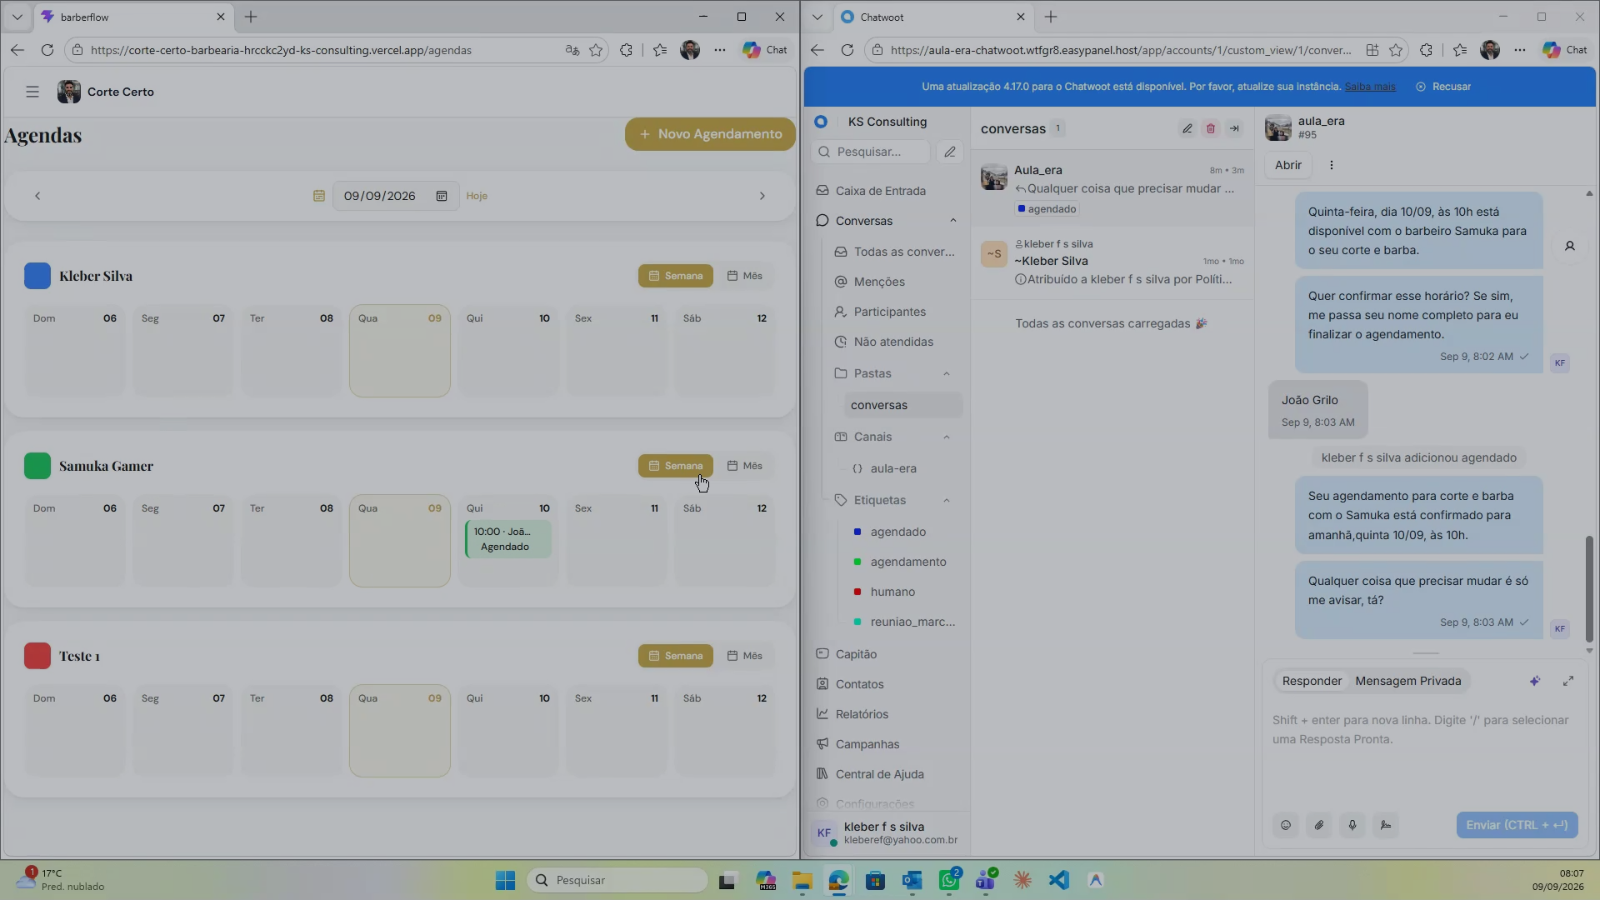
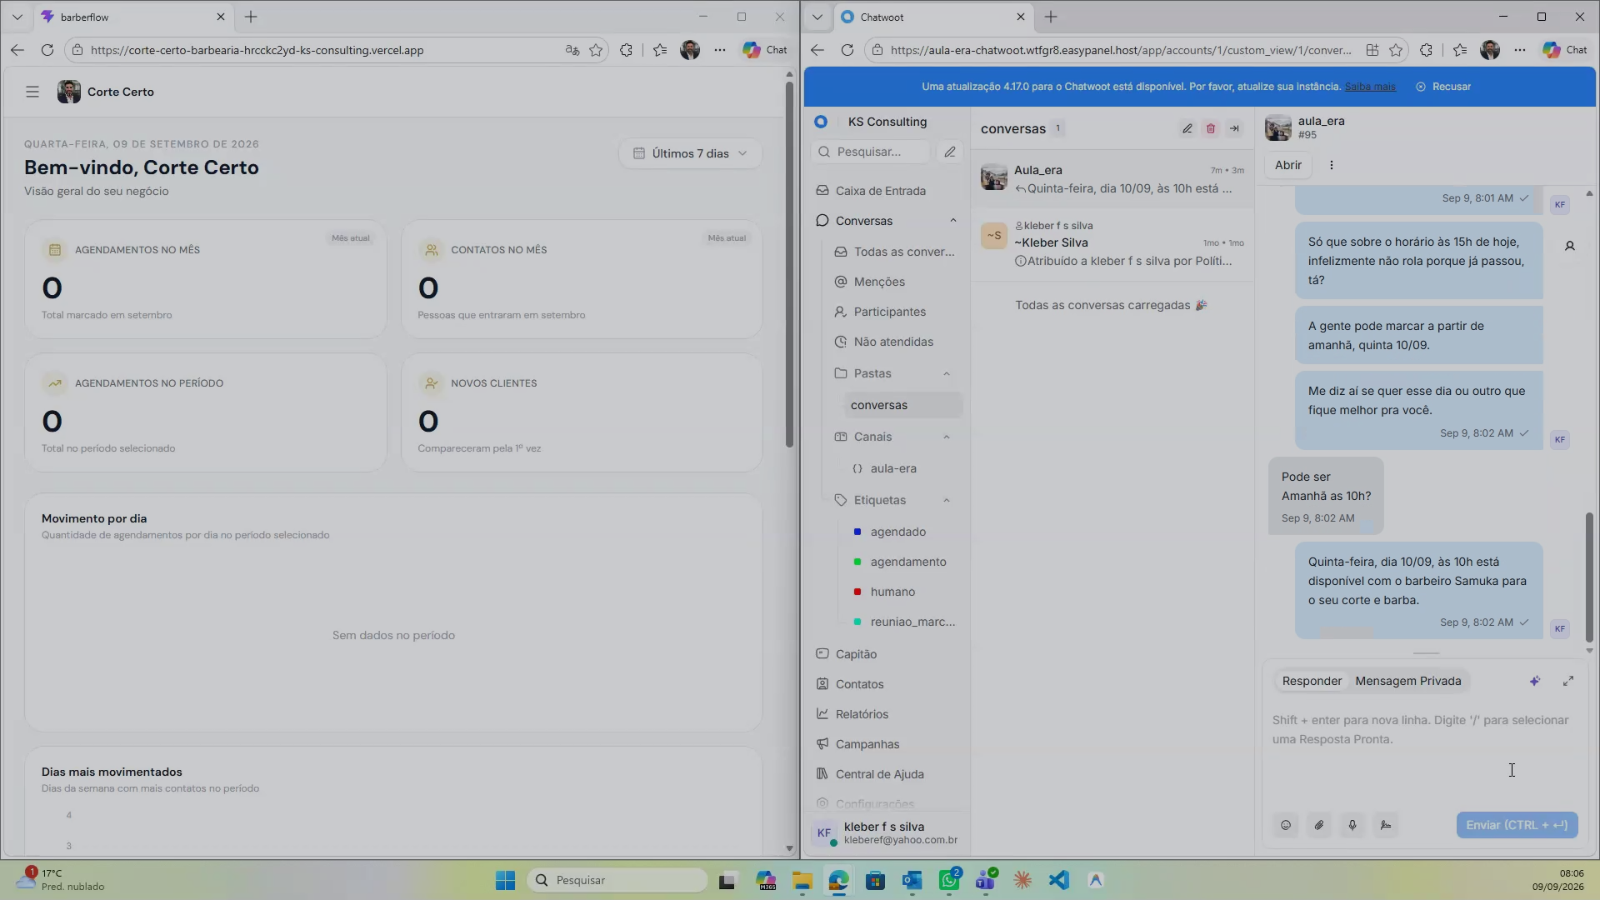
novos textos, video do case e ajustes de legibilidade

diff --git a/index.html b/index.html
@@ -43,16 +43,16 @@
 
 <section class="grid-hero" style="position:relative;max-width:1280px;margin:0 auto;padding:96px 32px 88px;display:grid;grid-template-columns:minmax(0,1.05fr) minmax(0,.95fr);gap:64px;align-items:center">
 <div style="display:flex;flex-direction:column;gap:28px;animation:rise 700ms cubic-bezier(.16,1,.3,1) both">
-<span style="display:inline-flex;align-items:center;gap:8px;align-self:flex-start;height:28px;padding:0 12px;border-radius:999px;background:rgba(0,102,255,.12);border:1px solid rgba(32,164,255,.35);color:#20A4FF;font-size:12px;font-weight:600;letter-spacing:.06em;text-transform:uppercase"><span style="width:6px;height:6px;border-radius:999px;background:#20A4FF"></span>Consultoria + IA aplicada</span>
-<h1 style="margin:0;font-family:'Space Grotesk',sans-serif;font-size:60px;font-weight:600;line-height:1.04;letter-spacing:-.03em;color:#F7F9FC;text-wrap:pretty">Sua operação atendendo, agendando e vendendo no <span style="color:#20A4FF">WhatsApp</span> — 24 horas por dia.</h1>
-<p style="margin:0;font-size:20px;line-height:1.6;max-width:540px;color:#B8C1D1">A KS instala agentes de IA, automações e sistemas de gestão dentro da sua empresa. Não é tecnologia pela tecnologia: é a mesma visão de consultoria que sempre tivemos, agora com capacidade de execução.</p>
+<span style="display:inline-flex;align-items:center;gap:8px;align-self:flex-start;min-height:28px;padding:6px 14px;border-radius:999px;background:rgba(0,102,255,.12);border:1px solid rgba(32,164,255,.35);color:#20A4FF;font-size:12px;font-weight:600;letter-spacing:.06em;text-transform:uppercase"><span style="width:6px;height:6px;border-radius:999px;background:#20A4FF"></span>Consultoria + Gestão do negócio com IA aplicada</span>
+<h1 style="margin:0;font-family:'Space Grotesk',sans-serif;font-size:52px;font-weight:600;line-height:1.08;letter-spacing:-.03em;color:#F7F9FC;text-wrap:pretty">Sua operação atendendo, tirando dúvidas, quebrando objeções, agendando e vendendo no <span style="color:#20A4FF">WhatsApp</span> todos os dias — sem depender de ninguém, 24/7.</h1>
+<p style="margin:0;font-size:20px;line-height:1.6;max-width:540px;color:#B8C1D1">A KS Consulting entra no campo da automação com inteligência artificial: sistemas integrados de gestão completa dentro da sua empresa. É o seu negócio rodando no piloto automático enquanto você foca no que gera resultado — atender bem quem já está na carteira.</p>
 <div style="display:flex;flex-wrap:wrap;gap:16px">
 <a class="ks-btn ks-btn--primary ks-btn--lg" href="#contato" data-cta="whatsapp">Falar no WhatsApp</a>
-<a class="ks-btn ks-btn--secondary ks-btn--lg" data-cta="calendly" href="#contato">Agendar diagnóstico</a>
+<a class="ks-btn ks-btn--secondary ks-btn--lg" data-cta="calendly" href="#contato">Agendar um bate-papo</a>
 </div>
-<div style="display:flex;flex-wrap:wrap;gap:48px;padding-top:24px;border-top:1px solid rgba(255,255,255,.08)">
+<div style="display:flex;flex-wrap:wrap;gap:32px;padding-top:24px;border-top:1px solid rgba(255,255,255,.08)">
 <div><div style="font-family:'Space Grotesk',sans-serif;font-size:40px;font-weight:700;color:#F7F9FC;letter-spacing:-.03em">24/7</div><div style="font-size:14px;color:#697386">Atendimento sem fila</div></div>
-<div><div style="font-family:'Space Grotesk',sans-serif;font-size:40px;font-weight:700;color:#BAFC04;letter-spacing:-.03em">30 min</div><div style="font-size:14px;color:#697386">Diagnóstico gratuito</div></div>
+<div><div style="font-family:'Space Grotesk',sans-serif;font-size:28px;font-weight:700;color:#BAFC04;letter-spacing:-.03em;white-space:nowrap;padding-top:8px">Personalizado</div><div style="font-size:14px;color:#697386">Análise focada na sua dor</div></div>
 <div><div style="font-family:'Space Grotesk',sans-serif;font-size:40px;font-weight:700;color:#00D9FF;letter-spacing:-.03em">3</div><div style="font-size:14px;color:#697386">Frentes de implantação</div></div>
 </div>
 </div>
@@ -85,7 +85,7 @@
 <div style="background:rgba(16,24,39,.78);backdrop-filter:blur(12px);border:1px solid rgba(255,255,255,.08);border-radius:16px;box-shadow:0 20px 60px rgba(0,0,0,.35);padding:32px;display:flex;flex-direction:column;gap:16px;transition:transform 260ms cubic-bezier(.16,1,.3,1),border-color 260ms ease,box-shadow 260ms ease" class="hv1">
 <span style="width:44px;height:44px;border-radius:10px;background:rgba(0,102,255,.10);border:1px solid rgba(32,164,255,.28);display:flex;align-items:center;justify-content:center;color:#20A4FF"><i data-lucide="bot" style="width:22px;height:22px;display:block"></i></span>
 <div style="font-size:12px;letter-spacing:.14em;text-transform:uppercase;color:#697386"><span style="color:#20A4FF">01</span> — Atendimento</div>
-<h3 style="margin:0;font-family:'Space Grotesk',sans-serif;font-size:24px;font-weight:600;color:#F7F9FC">Agentes de IA no WhatsApp</h3>
+<h3 style="margin:0;font-family:'Space Grotesk',sans-serif;font-size:24px;font-weight:600;color:#F7F9FC">Ecossistema com IA no WhatsApp</h3>
 <p style="margin:0;font-size:15px;line-height:1.6">Atendem, qualificam, agendam e respondem dúvidas 24h — sem depender de ninguém digitando. O time só entra quando a conversa exige decisão humana.</p>
 <div style="display:flex;flex-direction:column;gap:10px;padding-top:8px;border-top:1px solid rgba(255,255,255,.08);font-size:14px;color:#B8C1D1">
 <span style="display:flex;gap:10px;align-items:flex-start"><span style="color:#20A4FF">·</span>Primeira resposta em segundos</span>
@@ -97,10 +97,10 @@
 <div style="background:linear-gradient(160deg,rgba(32,164,255,.12) 0%,rgba(16,24,39,.85) 55%);border:1px solid #0066FF;border-radius:24px;box-shadow:0 20px 60px rgba(0,0,0,.35),0 0 30px rgba(0,102,255,.25);padding:32px;display:flex;flex-direction:column;gap:16px;transition:transform 260ms cubic-bezier(.16,1,.3,1),border-color 260ms ease,box-shadow 260ms ease" class="hv2">
 <span style="width:44px;height:44px;border-radius:10px;background:rgba(186,252,4,.10);border:1px solid rgba(186,252,4,.28);display:flex;align-items:center;justify-content:center;color:#BAFC04"><i data-lucide="zap" style="width:22px;height:22px;display:block"></i></span>
 <div style="font-size:12px;letter-spacing:.14em;text-transform:uppercase;color:#697386"><span style="color:#BAFC04">02</span> — Receita parada</div>
-<h3 style="margin:0;font-family:'Space Grotesk',sans-serif;font-size:24px;font-weight:600;color:#F7F9FC">Automações de reativação</h3>
+<h3 style="margin:0;font-family:'Space Grotesk',sans-serif;font-size:24px;font-weight:600;color:#F7F9FC">Automações de reativação | follow-up</h3>
 <p style="margin:0;font-size:15px;line-height:1.6">Cliente inativo volta a ser abordado sozinho, no tempo certo, sem alguém ter que lembrar de fazer isso. A base que você já tem vira agenda cheia.</p>
 <div style="display:flex;flex-direction:column;gap:10px;padding-top:8px;border-top:1px solid rgba(255,255,255,.08);font-size:14px;color:#B8C1D1">
-<span style="display:flex;gap:10px;align-items:flex-start"><span style="color:#BAFC04">·</span>Réguas por tempo sem compra</span>
+<span style="display:flex;gap:10px;align-items:flex-start"><span style="color:#BAFC04">·</span>Réguas por tempo de inatividade</span>
 <span style="display:flex;gap:10px;align-items:flex-start"><span style="color:#BAFC04">·</span>Follow-up de orçamento não fechado</span>
 <span style="display:flex;gap:10px;align-items:flex-start"><span style="color:#BAFC04">·</span>Pós-venda e recompra no automático</span>
 </div>
@@ -109,7 +109,7 @@
 <div style="background:rgba(16,24,39,.78);backdrop-filter:blur(12px);border:1px solid rgba(255,255,255,.08);border-radius:16px;box-shadow:0 20px 60px rgba(0,0,0,.35);padding:32px;display:flex;flex-direction:column;gap:16px;transition:transform 260ms cubic-bezier(.16,1,.3,1),border-color 260ms ease,box-shadow 260ms ease" class="hv3">
 <span style="width:44px;height:44px;border-radius:10px;background:rgba(0,217,255,.10);border:1px solid rgba(0,217,255,.28);display:flex;align-items:center;justify-content:center;color:#00D9FF"><i data-lucide="bar-chart-3" style="width:22px;height:22px;display:block"></i></span>
 <div style="font-size:12px;letter-spacing:.14em;text-transform:uppercase;color:#697386"><span style="color:#00D9FF">03</span> — Controle</div>
-<h3 style="margin:0;font-family:'Space Grotesk',sans-serif;font-size:24px;font-weight:600;color:#F7F9FC">Sistemas de gestão</h3>
+<h3 style="margin:0;font-family:'Space Grotesk',sans-serif;font-size:24px;font-weight:600;color:#F7F9FC">Dashboard de gestão [CRM + KPIs]</h3>
 <p style="margin:0;font-size:15px;line-height:1.6">O dono no controle real do negócio, com dado — não achismo. Um painel único com o que entra, o que sai e o que trava.</p>
 <div style="display:flex;flex-direction:column;gap:10px;padding-top:8px;border-top:1px solid rgba(255,255,255,.08);font-size:14px;color:#B8C1D1">
 <span style="display:flex;gap:10px;align-items:flex-start"><span style="color:#00D9FF">·</span>Indicadores de venda e atendimento</span>
@@ -128,18 +128,18 @@
 <div style="display:grid;grid-template-columns:repeat(auto-fit,minmax(240px,1fr));gap:24px;border-top:1px solid rgba(255,255,255,.08);padding-top:32px">
 <div style="display:flex;flex-direction:column;gap:12px">
 <div style="display:flex;align-items:center;gap:12px"><span style="width:10px;height:10px;border-radius:999px;background:#20A4FF;box-shadow:0 0 12px rgba(0,102,255,.6)"></span><span style="font-family:'Space Grotesk',sans-serif;font-size:14px;font-weight:600;letter-spacing:.14em;color:#697386">ETAPA 01</span></div>
-<h3 style="margin:0;font-family:'Space Grotesk',sans-serif;font-size:24px;font-weight:600;color:#F7F9FC">Diagnóstico</h3>
-<p style="margin:0;font-size:15px;line-height:1.6">30 minutos olhando o seu processo real: onde o cliente espera, onde o dinheiro para e o que hoje só existe na cabeça de alguém.</p>
+<h3 style="margin:0;font-family:'Space Grotesk',sans-serif;font-size:24px;font-weight:600;color:#F7F9FC">Diagnóstico cirúrgico da dor</h3>
+<p style="margin:0;font-size:15px;line-height:1.6">Análise minuciosa do seu processo em funcionamento: onde o cliente espera, onde estão os gargalos e as oportunidades escondidas — e onde você está perdendo dinheiro.</p>
 </div>
 <div style="display:flex;flex-direction:column;gap:12px">
 <div style="display:flex;align-items:center;gap:12px"><span style="width:10px;height:10px;border-radius:999px;background:#20A4FF;box-shadow:0 0 12px rgba(0,102,255,.6)"></span><span style="font-family:'Space Grotesk',sans-serif;font-size:14px;font-weight:600;letter-spacing:.14em;color:#697386">ETAPA 02</span></div>
-<h3 style="margin:0;font-family:'Space Grotesk',sans-serif;font-size:24px;font-weight:600;color:#F7F9FC">Implantação</h3>
-<p style="margin:0;font-size:15px;line-height:1.6">Agente, automação ou sistema entram no ar em ciclos curtos, integrados ao que você já usa. Sem trocar tudo, sem parar a operação.</p>
+<h3 style="margin:0;font-family:'Space Grotesk',sans-serif;font-size:24px;font-weight:600;color:#F7F9FC">Seu negócio trabalhando por você</h3>
+<p style="margin:0;font-size:15px;line-height:1.6">Implantamos o sistema com seus agentes de IA e as automações de forma rápida e integrada: sem trocar tudo e sem parar o que já funciona.</p>
 </div>
 <div style="display:flex;flex-direction:column;gap:12px">
 <div style="display:flex;align-items:center;gap:12px"><span style="width:10px;height:10px;border-radius:999px;background:#BAFC04;box-shadow:0 0 12px rgba(186,252,4,.5)"></span><span style="font-family:'Space Grotesk',sans-serif;font-size:14px;font-weight:600;letter-spacing:.14em;color:#697386">ETAPA 03</span></div>
-<h3 style="margin:0;font-family:'Space Grotesk',sans-serif;font-size:24px;font-weight:600;color:#F7F9FC">Operação assistida</h3>
-<p style="margin:0;font-size:15px;line-height:1.6">Acompanhamento com número na mesa. O que prova retorno ganha escala; o que não prova, sai do ar.</p>
+<h3 style="margin:0;font-family:'Space Grotesk',sans-serif;font-size:24px;font-weight:600;color:#F7F9FC">Operação assistida sem achismo</h3>
+<p style="margin:0;font-size:15px;line-height:1.6">Medimos o impacto real na operação. O que comprova retorno recebe mais investimento; o que não comprova é corrigido ou descontinuado.</p>
 </div>
 </div>
 </div>
@@ -151,7 +151,7 @@
 <div style="font-size:12px;letter-spacing:.14em;text-transform:uppercase;color:#697386;margin-bottom:16px"><span style="color:#BAFC04">03</span> — Cases</div>
 <h2 style="margin:0;font-family:'Space Grotesk',sans-serif;font-size:40px;font-weight:600;letter-spacing:-.02em;color:#F7F9FC;max-width:640px;text-wrap:pretty">O que muda quando a operação para de <span style="color:#BAFC04">depender de gente lembrando</span></h2>
 </div>
-<span style="display:inline-flex;align-items:center;gap:8px;height:28px;padding:0 12px;border-radius:999px;background:rgba(255,255,255,.05);border:1px solid rgba(255,255,255,.12);color:#B8C1D1;font-size:12px;font-weight:600;letter-spacing:.06em;text-transform:uppercase">Exemplos ilustrativos</span>
+<span style="display:inline-flex;align-items:center;gap:8px;min-height:28px;padding:6px 14px;border-radius:999px;background:rgba(255,255,255,.05);border:1px solid rgba(255,255,255,.12);color:#B8C1D1;font-size:12px;font-weight:600;letter-spacing:.06em;text-transform:uppercase">Exemplos ilustrativos</span>
 </div>
 <div class="case-video-row" style="display:grid;grid-template-columns:minmax(0,1.35fr) minmax(0,1fr);gap:32px;align-items:stretch;margin-bottom:48px">
 <figure style="margin:0;background:#162236;border:1px solid #26344A;border-radius:24px;box-shadow:0 30px 80px rgba(0,0,0,.45);padding:16px;display:flex;flex-direction:column;gap:12px">
@@ -223,7 +223,7 @@ Seu navegador não reproduz este vídeo.
 <div style="position:absolute;inset:0;background-image:radial-gradient(45% 55% at 80% 40%,rgba(0,217,255,.10) 0%,rgba(8,14,28,0) 70%)"></div>
 <div style="position:relative;max-width:1280px;margin:0 auto;padding:0 32px">
 <div style="font-size:12px;letter-spacing:.14em;text-transform:uppercase;color:#697386;margin-bottom:16px"><span style="color:#20A4FF">04</span> — Depoimentos</div>
-<h2 style="margin:0 0 48px;font-family:'Space Grotesk',sans-serif;font-size:40px;font-weight:600;letter-spacing:-.02em;color:#F7F9FC;max-width:680px;text-wrap:pretty">Quem trabalha com a KS fala de <span style="color:#20A4FF">tranquilidade</span></h2>
+<h2 style="margin:0 0 48px;font-family:'Space Grotesk',sans-serif;font-size:40px;font-weight:600;letter-spacing:-.02em;color:#F7F9FC;max-width:680px;text-wrap:pretty">Quem trabalha com a KS Consulting fala de <span style="color:#20A4FF">tranquilidade</span></h2>
 <div style="display:grid;grid-template-columns:repeat(auto-fit,minmax(320px,1fr));gap:24px">
 <div style="background:#162236;border:1px solid #26344A;border-radius:24px;box-shadow:0 20px 60px rgba(0,0,0,.35);padding:32px;display:flex;flex-direction:column;gap:24px;transition:transform 260ms cubic-bezier(.16,1,.3,1),border-color 260ms ease,box-shadow 260ms ease" class="hv7">
 <p style="margin:0;font-family:'Space Grotesk',sans-serif;font-size:20px;font-weight:400;line-height:1.5;color:#F7F9FC">“Parei de acordar preocupado com mensagem sem resposta. O agente atende, agenda e me manda o resumo do dia.”</p>
@@ -247,20 +247,20 @@ Seu navegador não reproduz este vídeo.
 
 <section id="contato" style="position:relative;overflow:hidden;padding:96px 0 112px">
 <div style="position:absolute;inset:0;background-image:linear-gradient(rgba(255,255,255,.03) 1px,transparent 1px),linear-gradient(90deg,rgba(255,255,255,.03) 1px,transparent 1px);background-size:56px 56px"></div>
-<div style="position:absolute;inset:0;background-image:radial-gradient(55% 60% at 30% 100%,rgba(0,102,255,.20) 0%,rgba(8,14,28,0) 70%)"></div>
+<div style="position:absolute;inset:0;background-image:radial-gradient(55% 60% at 30% 100%,rgba(0,102,255,.20) 0%,rgba(8,14,28,0) 70%),linear-gradient(90deg,rgba(8,14,28,.90) 0%,rgba(8,14,28,.72) 42%,rgba(8,14,28,0) 70%)"></div>
 <div style="position:relative;max-width:1280px;margin:0 auto;padding:0 32px;display:grid;grid-template-columns:repeat(auto-fit,minmax(320px,1fr));gap:64px;align-items:start">
 <div style="display:flex;flex-direction:column;gap:28px">
 <div style="font-size:12px;letter-spacing:.14em;text-transform:uppercase;color:#697386"><span style="color:#20A4FF">05</span> — Contato</div>
-<h2 style="margin:0;font-family:'Space Grotesk',sans-serif;font-size:48px;font-weight:600;letter-spacing:-.02em;line-height:1.08;color:#F7F9FC;text-wrap:pretty">Vamos olhar a sua operação <span style="color:#BAFC04">juntos</span>.</h2>
-<p style="margin:0;font-size:18px;line-height:1.6;max-width:480px">Diagnóstico gratuito de 30 minutos. Sem apresentação comercial: você sai com os três pontos onde IA e automação fazem diferença no seu negócio.</p>
+<h2 style="margin:0;font-family:'Space Grotesk',sans-serif;font-size:48px;font-weight:600;letter-spacing:-.02em;line-height:1.08;color:#F7F9FC;text-wrap:pretty">Vamos olhar a sua operação <span style="color:#BAFC04">juntos</span>?</h2>
+<p style="margin:0;font-size:18px;line-height:1.6;max-width:480px">Diagnóstico cirúrgico em uma conversa. Sem apresentação comercial: você sai com os principais pontos onde a KS Consulting e a sua solução vão fazer diferença no seu negócio.</p>
 <div style="display:flex;flex-direction:column;gap:12px">
 <a href="#contato" data-cta="whatsapp" style="display:flex;align-items:center;gap:16px;padding:20px;background:rgba(16,24,39,.78);backdrop-filter:blur(12px);border:1px solid rgba(255,255,255,.08);border-radius:16px;color:#B8C1D1" class="hv9">
 <span style="width:44px;height:44px;border-radius:10px;background:rgba(186,252,4,.10);border:1px solid rgba(186,252,4,.28);display:flex;align-items:center;justify-content:center;color:#BAFC04;flex:none"><i data-lucide="phone" style="width:20px;height:20px;display:block"></i></span>
-<span><span style="display:block;font-size:16px;font-weight:600;color:#F7F9FC">WhatsApp direto</span><span style="display:block;font-size:14px;color:#697386">Resposta no mesmo dia útil</span></span>
+<span><span style="display:block;font-size:16px;font-weight:600;color:#F7F9FC">WhatsApp direto</span><span style="display:block;font-size:14px;color:#697386">Resposta o mais rápido possível</span></span>
 </a>
 <a href="#contato" data-cta="calendly" style="display:flex;align-items:center;gap:16px;padding:20px;background:rgba(16,24,39,.78);backdrop-filter:blur(12px);border:1px solid rgba(255,255,255,.08);border-radius:16px;color:#B8C1D1" class="hv10">
 <span style="width:44px;height:44px;border-radius:10px;background:rgba(0,102,255,.10);border:1px solid rgba(32,164,255,.28);display:flex;align-items:center;justify-content:center;color:#20A4FF;flex:none"><i data-lucide="calendar-check" style="width:20px;height:20px;display:block"></i></span>
-<span><span style="display:block;font-size:16px;font-weight:600;color:#F7F9FC">Agendar na agenda</span><span style="display:block;font-size:14px;color:#697386">Escolha o horário que te serve</span></span>
+<span><span style="display:block;font-size:16px;font-weight:600;color:#F7F9FC">Agendar na agenda</span><span style="display:block;font-size:14px;color:#697386">Escolha o melhor horário para você</span></span>
 </a>
 </div>
 </div>
@@ -274,7 +274,7 @@ Seu navegador não reproduz este vídeo.
 <label class="ks-field" for="f2"><span class="ks-field__label">Empresa</span><span class="ks-field__box"><input class="ks-field__input" id="f2" name="empresa" type="text" placeholder="Nome da empresa" required></span></label>
 <label class="ks-field" for="f3"><span class="ks-field__label">WhatsApp</span><span class="ks-field__box"><input class="ks-field__input" id="f3" name="whatsapp" type="text" placeholder="(00) 00000-0000" required></span></label>
 <label class="ks-field" for="f4"><span class="ks-field__label">Qual o maior gargalo hoje?</span><span class="ks-field__box"><input class="ks-field__input" id="f4" name="gargalo" type="text" placeholder="Atendimento, vendas paradas, falta de controle…" required></span></label>
-<button class="ks-btn ks-btn--primary ks-btn--lg ks-btn--full" type="submit">Agendar diagnóstico</button>
+<button class="ks-btn ks-btn--primary ks-btn--lg ks-btn--full" type="submit">Agendar um bate-papo</button>
 <p style="margin:0;font-size:13px;color:#697386">Seus dados ficam com a KS. Nada de lista de disparo.</p></form>
 </div>
 </div>
